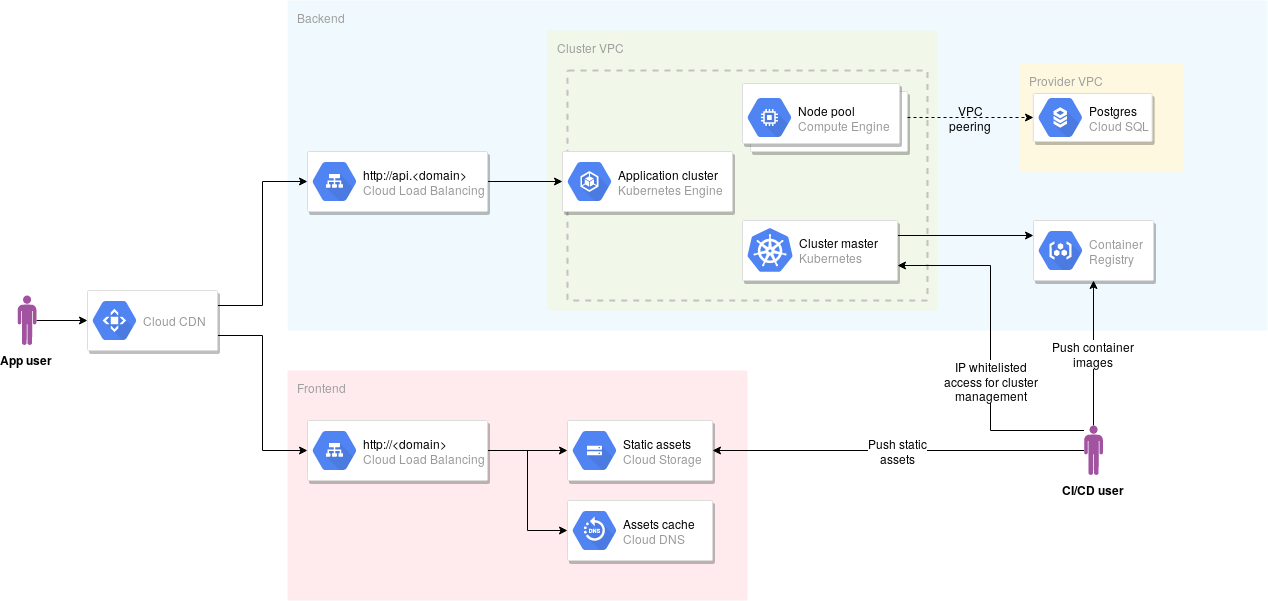
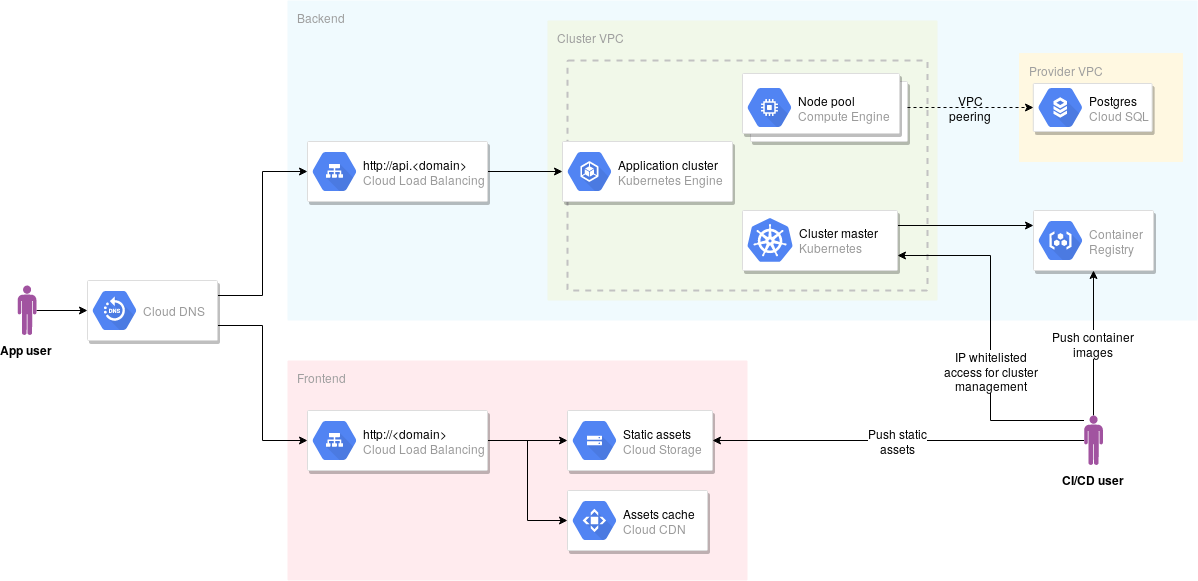
Update docs

diff --git a/README.md b/README.md
@@ -1,22 +1,21 @@
-# gke-test
+# Google Kubernetes Engine full-stack example
 [![CircleCI](https://circleci.com/gh/epiphone/gke-terraform-example/tree/master.svg?style=svg)](https://circleci.com/gh/epiphone/gke-terraform-example/tree/master)
 
-A sample setup of Google Kubernetes Engine & Cloud SQL. Consists of
+An example of deploying a web app on GKE. Consists of
 - **GKE cluster** with a single node pool
   - [VPC-native](https://cloud.google.com/kubernetes-engine/docs/how-to/alias-ips), [private](https://cloud.google.com/kubernetes-engine/docs/how-to/private-clusters) and using [container-native load-balancing](https://cloud.google.com/kubernetes-engine/docs/how-to/container-native-load-balancing)
-  - access to the cluster master is limited to a single whitelisted IP: check the `K8S_MASTER_ALLOWED_IP` env variable below
-- **Postgres Cloud SQL** instance with [private networking](https://cloud.google.com/blog/products/databases/introducing-private-networking-connection-for-cloud-sql)
-  - Cloud SQL is connected to GKE through a [private IP](https://cloud.google.com/sql/docs/mysql/connect-kubernetes-engine#private-ip), ensuring db traffic is never exposed to the public internet
-- Static assets served from **Cloud Storage** through **Cloud Load Balancer** with **Cloud CDN** enabled
+  - access to cluster master is limited to a single whitelisted IP: check the `K8S_MASTER_ALLOWED_IP` env variable below
+- **Cloud SQL Postgres** instance with [private networking](https://cloud.google.com/blog/products/databases/introducing-private-networking-connection-for-cloud-sql)
+  - connects to GKE through a [private IP](https://cloud.google.com/sql/docs/mysql/connect-kubernetes-engine#private-ip), ensuring traffic is never exposed to the public internet
+- **Cloud Storage** and **Cloud CDN** for serving static assets
   - currently using a separate load balancer from the cluster because `ingress-gce` [lacks support for backend buckets](https://github.com/kubernetes/ingress-gce/issues/33)
+- **Cloud DNS** for domain management
+    - check `ROOT_DOMAIN_NAME_<ENV>` below
 - **Terraform**-defined infrastructure
-  - split into three modules of `gke`, `cloud_sql` and `assets` as well as environment-specific starting points
-  - we're not using the [Kubernetes Terraform provider](https://github.com/terraform-providers/terraform-provider-kubernetes) as its missing e.g. an Ingress type: using instead the [regular Kubernetes .yml notation](/k8s/k8s.yml) and `kubectl`
-- **multi-env** CI pipeline on **CircleCI**
-  - push to any non-master branch triggers update to `dev` environment
-  - push to `master` branch triggers update to `test` environment
-  - additional approval step at CircleCI UI after `test` environment update triggers `prod` environment update
-  - Terraform plan file, Kubernetes config and newly built Docker image tag are stored into CircleCI as test artifacts
+  - using `kubectl` directly instead of the [Kubernetes Terraform provider](https://github.com/terraform-providers/terraform-provider-kubernetes) as the latter is missing an Ingress type, among others
+- **CircleCI** pipeline
+  - push to any non-master branch triggers `dev` deployment & push to `master` branch triggers `test` deployment
+  - `prod` deployment triggered by an additional approval step at CircleCI UI
 
 ![architecture sketch](/doc/gke-sample-app.png)
 
@@ -28,8 +27,6 @@ The following steps need to be completed manually before automation kicks in:
 2. For each Google Cloud project,
     - set up a Cloud Storage bucket for storing [remote Terraform state](https://www.terraform.io/docs/backends/types/gcs.html)
     - set up a service IAM account to be used by Terraform. Attach the `Editor` and `Compute Network Agent` roles to the created user
-    - [login](https://cloud.google.com/sdk/gcloud/reference/auth/activate-service-account) with the service account
-    - run `cd terraform/<ENV> && terraform init` to initialize Terraform providers
 3. Set environment variables in your CircleCI project (replacing `ENV` with an uppercase `DEV`, `TEST` and `PROD`):
     - `GOOGLE_PROJECT_ID_<ENV>`: env-specific Google project id
     - `GCLOUD_SERVICE_KEY_<ENV>`: env-specific service account key
